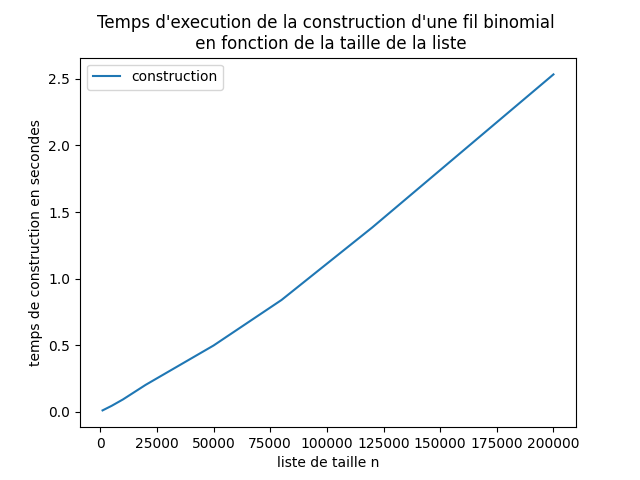
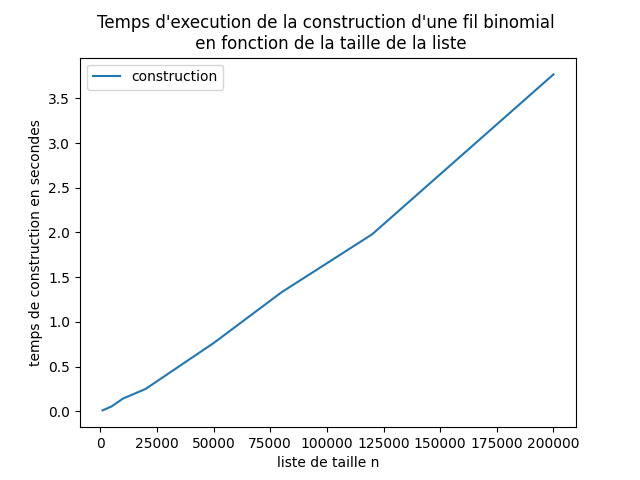
review workspace

diff --git a/BinomialQueue.py b/BinomialQueue.py
@@ -21,12 +21,6 @@ class BinomialNode:
         return description+ "}\n"
 
 class BinomialHeap:
-    # def __init__(self, root_key):
-    #     self.root = BinomialNode(root_key)
-    #     self.size = 0
-    #     self.left = None
-    #     self.right = None
-        
     def __init__(self):
         self.root = None
         self.size = 0
@@ -64,46 +58,18 @@ class BinomialHeap:
     def minimum (self):
         return self.root.key
     
-    # def _ajout_iteratif(self, list_values):
-    #     list_values = deque(self.quickListCle128(list_values))
-    #     if len(list_values) == 0:
-    #         return
-    #     length = len(list_values)
-    #     self.root = BinomialNode(list_values.popleft())
-    #     self.size = length
-    #     self.root.degree = int(log2(length))
-    #     self.__ajout(self.root, list_values, self.root.degree)
+    def _ajout_iteratif(self, list_values):
+        list_values = deque(self.quickListCle128(list_values))
+        if len(list_values) == 0:
+            return
+        length = len(list_values)
+        self.root = BinomialNode(list_values.popleft())
+        self.size = length
+        self.root.degree = int(log2(length))
+        self.__ajout(self.root, list_values, self.root.degree)
         
-    #     return self
-    
-    # def __ajout(self, node, list_values, degree):
-    #     if degree == 0:
-    #         return
-    #     else:
-    #         node.degree = degree
-    #         for i in range(degree):
-    #             child = BinomialNode(list_values.popleft())
-    #             child.parent = node
-    #             node.childs.append(child)
-    #             self.__ajout(child, list_values, degree - i - 1)
-        
-    #     return self
-                
-        
-    def quickListCle128(self, list_values):
-        
-        def comparator(node1, node2):
-            if st.inf(node1, node2):
-                return -1
-            elif st.sup(node1, node2):
-                return 1
-            else:
-                return 0
-            
-        return sorted(list_values, key=cmp_to_key(comparator))
-        
-        
-            
+        return self
+          
     def union2Tid(self, other_tree):
         if other_tree is None:
             raise ValueError("union avec un tas vide")
@@ -256,41 +222,6 @@ class BinomialQueue:
         self.size = res.size
         return self
         
-
-    # def ajout(self, binomialHeap):
-    #     if binomialHeap is None:
-    #         raise ValueError("ajout d'un tournoi vide")
-        
-    #     if self.estVide():
-    #         self.firstNode = binomialHeap
-    #         self.lastNode = binomialHeap
-    #         self.minimum = binomialHeap
-    #         self.size = binomialHeap.size
-    #     elif self.lastNode.degree() > binomialHeap.degree():
-    #         self.AjoutMin(binomialHeap)
-    #     else:
-    #         node = self.firstNode
-    #         while node and node.degree() > binomialHeap.degree():
-    #             node = node.right
-            
-    #         if node.degree() == binomialHeap.degree():
-    #             self.removeNode(node) 
-    #             # on ajoute la fusion des deux tournois
-    #             binomialHeap.union2Tid(node)
-    #             self.ajout(binomialHeap)
-    #         else:
-    #             binomialHeap.left = node.left
-    #             binomialHeap.right = node
-    #             node.left.right = binomialHeap
-    #             node.left = binomialHeap
-    #             self.size += binomialHeap.size
-    #             if self.minimum is None or binomialHeap.root.key < self.minimum.root.key:
-    #                 self.minimum = binomialHeap
-    #             if binomialHeap.left is None:
-    #                 self.firstNode = binomialHeap
-        # 
-        # return self
-    
     def construction(self, list):
         for value in list:
             binomialHeap = BinomialHeap()
@@ -343,4 +274,3 @@ class BinomialQueue:
                 return self.reste().uFret(binomialQueue, T1.union2Tid(binomialHeap))
             if binomialHeap.degre() == T2.degre() and binomialHeap.degre() < T1.degre():
                 return binomialQueue.reste().uFret(self, T2.union2Tid(binomialHeap))
-

diff --git a/BinomialQueueExperiment.py b/BinomialQueueExperiment.py
@@ -47,9 +47,6 @@ def representation_graphique(abscisse, ordonnee, nom_fichier, xlabe='', ylabe=''
     ax.set_title(titre)
     ax.legend()
 
-    # plt.gca().get_yaxis().get_major_formatter().set_scientific(False)
-
-
     # Sauvegarder le graphique
     plt.savefig("experiments/binomialQueue/" + nom_fichier)
 
